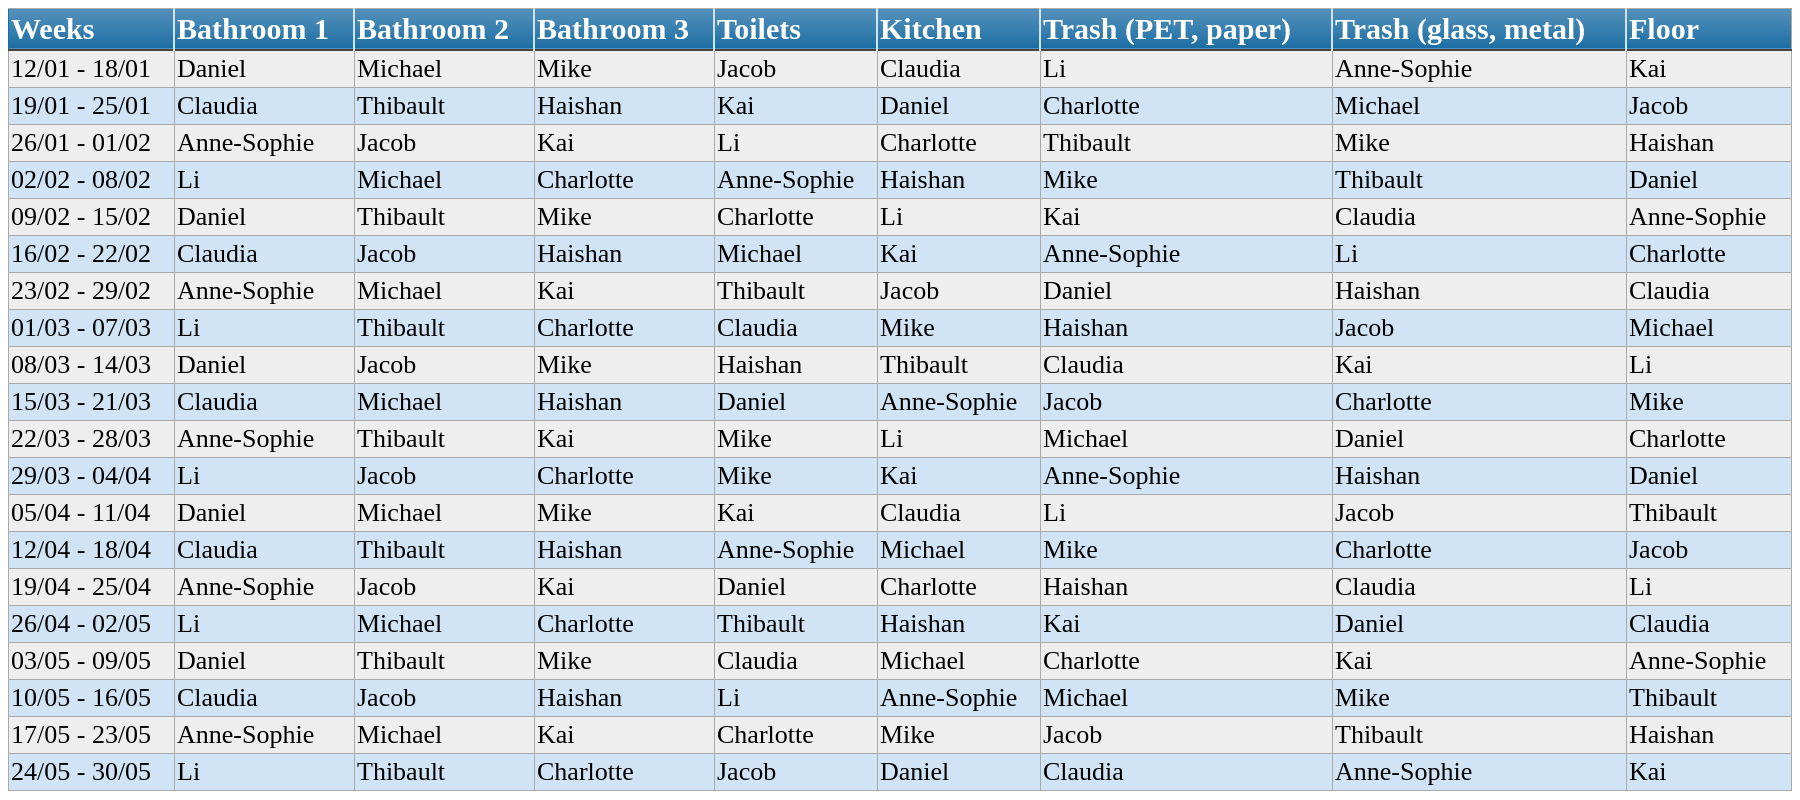
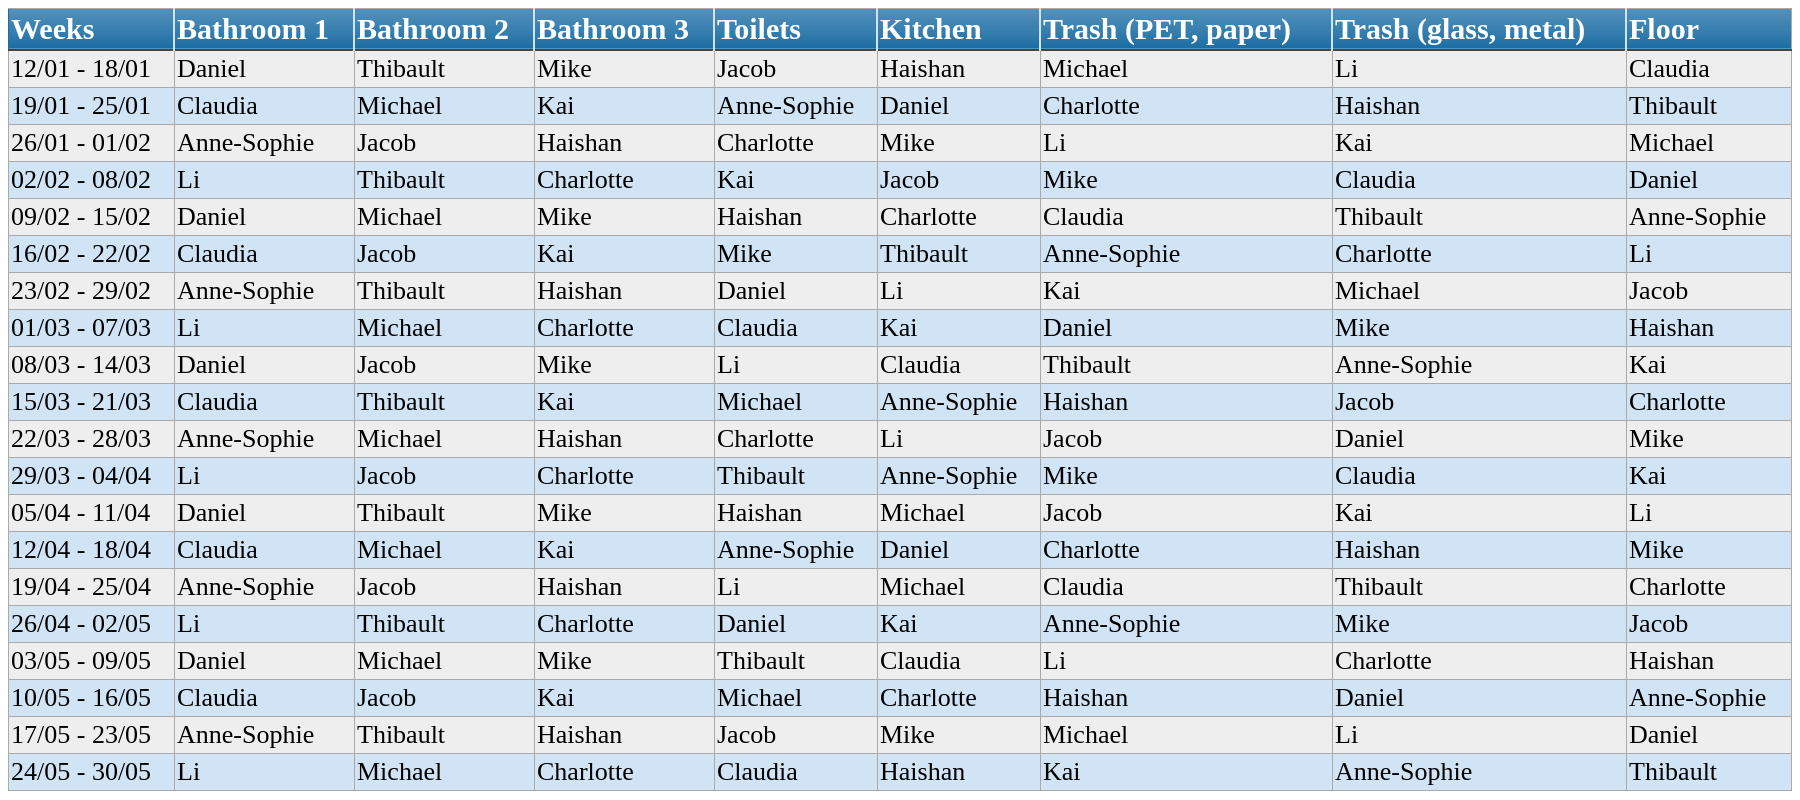
Counter of jobs, taking pause into account, no max recursion

diff --git a/cleaning_duty.html b/cleaning_duty.html
@@ -7,26 +7,26 @@
 <tr><th>Weeks        </th><th>Bathroom 1  </th><th>Bathroom 2  </th><th>Bathroom 3  </th><th>Toilets    </th><th>Kitchen    </th><th>Trash (PET, paper)  </th><th>Trash (glass, metal)  </th><th>Floor      </th></tr>
 </thead>
 <tbody>
-<tr><td>12/01 - 18/01</td><td>Daniel      </td><td>Michael     </td><td>Mike        </td><td>Jacob      </td><td>Claudia    </td><td>Li                  </td><td>Anne-Sophie           </td><td>Kai        </td></tr>
-<tr><td>19/01 - 25/01</td><td>Claudia     </td><td>Thibault    </td><td>Haishan     </td><td>Kai        </td><td>Daniel     </td><td>Charlotte           </td><td>Michael               </td><td>Jacob      </td></tr>
-<tr><td>26/01 - 01/02</td><td>Anne-Sophie </td><td>Jacob       </td><td>Kai         </td><td>Li         </td><td>Charlotte  </td><td>Thibault            </td><td>Mike                  </td><td>Haishan    </td></tr>
-<tr><td>02/02 - 08/02</td><td>Li          </td><td>Michael     </td><td>Charlotte   </td><td>Anne-Sophie</td><td>Haishan    </td><td>Mike                </td><td>Thibault              </td><td>Daniel     </td></tr>
-<tr><td>09/02 - 15/02</td><td>Daniel      </td><td>Thibault    </td><td>Mike        </td><td>Charlotte  </td><td>Li         </td><td>Kai                 </td><td>Claudia               </td><td>Anne-Sophie</td></tr>
-<tr><td>16/02 - 22/02</td><td>Claudia     </td><td>Jacob       </td><td>Haishan     </td><td>Michael    </td><td>Kai        </td><td>Anne-Sophie         </td><td>Li                    </td><td>Charlotte  </td></tr>
-<tr><td>23/02 - 29/02</td><td>Anne-Sophie </td><td>Michael     </td><td>Kai         </td><td>Thibault   </td><td>Jacob      </td><td>Daniel              </td><td>Haishan               </td><td>Claudia    </td></tr>
-<tr><td>01/03 - 07/03</td><td>Li          </td><td>Thibault    </td><td>Charlotte   </td><td>Claudia    </td><td>Mike       </td><td>Haishan             </td><td>Jacob                 </td><td>Michael    </td></tr>
-<tr><td>08/03 - 14/03</td><td>Daniel      </td><td>Jacob       </td><td>Mike        </td><td>Haishan    </td><td>Thibault   </td><td>Claudia             </td><td>Kai                   </td><td>Li         </td></tr>
-<tr><td>15/03 - 21/03</td><td>Claudia     </td><td>Michael     </td><td>Haishan     </td><td>Daniel     </td><td>Anne-Sophie</td><td>Jacob               </td><td>Charlotte             </td><td>Mike       </td></tr>
-<tr><td>22/03 - 28/03</td><td>Anne-Sophie </td><td>Thibault    </td><td>Kai         </td><td>Mike       </td><td>Li         </td><td>Michael             </td><td>Daniel                </td><td>Charlotte  </td></tr>
-<tr><td>29/03 - 04/04</td><td>Li          </td><td>Jacob       </td><td>Charlotte   </td><td>Mike       </td><td>Kai        </td><td>Anne-Sophie         </td><td>Haishan               </td><td>Daniel     </td></tr>
-<tr><td>05/04 - 11/04</td><td>Daniel      </td><td>Michael     </td><td>Mike        </td><td>Kai        </td><td>Claudia    </td><td>Li                  </td><td>Jacob                 </td><td>Thibault   </td></tr>
-<tr><td>12/04 - 18/04</td><td>Claudia     </td><td>Thibault    </td><td>Haishan     </td><td>Anne-Sophie</td><td>Michael    </td><td>Mike                </td><td>Charlotte             </td><td>Jacob      </td></tr>
-<tr><td>19/04 - 25/04</td><td>Anne-Sophie </td><td>Jacob       </td><td>Kai         </td><td>Daniel     </td><td>Charlotte  </td><td>Haishan             </td><td>Claudia               </td><td>Li         </td></tr>
-<tr><td>26/04 - 02/05</td><td>Li          </td><td>Michael     </td><td>Charlotte   </td><td>Thibault   </td><td>Haishan    </td><td>Kai                 </td><td>Daniel                </td><td>Claudia    </td></tr>
-<tr><td>03/05 - 09/05</td><td>Daniel      </td><td>Thibault    </td><td>Mike        </td><td>Claudia    </td><td>Michael    </td><td>Charlotte           </td><td>Kai                   </td><td>Anne-Sophie</td></tr>
-<tr><td>10/05 - 16/05</td><td>Claudia     </td><td>Jacob       </td><td>Haishan     </td><td>Li         </td><td>Anne-Sophie</td><td>Michael             </td><td>Mike                  </td><td>Thibault   </td></tr>
-<tr><td>17/05 - 23/05</td><td>Anne-Sophie </td><td>Michael     </td><td>Kai         </td><td>Charlotte  </td><td>Mike       </td><td>Jacob               </td><td>Thibault              </td><td>Haishan    </td></tr>
-<tr><td>24/05 - 30/05</td><td>Li          </td><td>Thibault    </td><td>Charlotte   </td><td>Jacob      </td><td>Daniel     </td><td>Claudia             </td><td>Anne-Sophie           </td><td>Kai        </td></tr>
+<tr><td>12/01 - 18/01</td><td>Daniel      </td><td>Thibault    </td><td>Mike        </td><td>Jacob      </td><td>Haishan    </td><td>Michael             </td><td>Li                    </td><td>Claudia    </td></tr>
+<tr><td>19/01 - 25/01</td><td>Claudia     </td><td>Michael     </td><td>Kai         </td><td>Anne-Sophie</td><td>Daniel     </td><td>Charlotte           </td><td>Haishan               </td><td>Thibault   </td></tr>
+<tr><td>26/01 - 01/02</td><td>Anne-Sophie </td><td>Jacob       </td><td>Haishan     </td><td>Charlotte  </td><td>Mike       </td><td>Li                  </td><td>Kai                   </td><td>Michael    </td></tr>
+<tr><td>02/02 - 08/02</td><td>Li          </td><td>Thibault    </td><td>Charlotte   </td><td>Kai        </td><td>Jacob      </td><td>Mike                </td><td>Claudia               </td><td>Daniel     </td></tr>
+<tr><td>09/02 - 15/02</td><td>Daniel      </td><td>Michael     </td><td>Mike        </td><td>Haishan    </td><td>Charlotte  </td><td>Claudia             </td><td>Thibault              </td><td>Anne-Sophie</td></tr>
+<tr><td>16/02 - 22/02</td><td>Claudia     </td><td>Jacob       </td><td>Kai         </td><td>Mike       </td><td>Thibault   </td><td>Anne-Sophie         </td><td>Charlotte             </td><td>Li         </td></tr>
+<tr><td>23/02 - 29/02</td><td>Anne-Sophie </td><td>Thibault    </td><td>Haishan     </td><td>Daniel     </td><td>Li         </td><td>Kai                 </td><td>Michael               </td><td>Jacob      </td></tr>
+<tr><td>01/03 - 07/03</td><td>Li          </td><td>Michael     </td><td>Charlotte   </td><td>Claudia    </td><td>Kai        </td><td>Daniel              </td><td>Mike                  </td><td>Haishan    </td></tr>
+<tr><td>08/03 - 14/03</td><td>Daniel      </td><td>Jacob       </td><td>Mike        </td><td>Li         </td><td>Claudia    </td><td>Thibault            </td><td>Anne-Sophie           </td><td>Kai        </td></tr>
+<tr><td>15/03 - 21/03</td><td>Claudia     </td><td>Thibault    </td><td>Kai         </td><td>Michael    </td><td>Anne-Sophie</td><td>Haishan             </td><td>Jacob                 </td><td>Charlotte  </td></tr>
+<tr><td>22/03 - 28/03</td><td>Anne-Sophie </td><td>Michael     </td><td>Haishan     </td><td>Charlotte  </td><td>Li         </td><td>Jacob               </td><td>Daniel                </td><td>Mike       </td></tr>
+<tr><td>29/03 - 04/04</td><td>Li          </td><td>Jacob       </td><td>Charlotte   </td><td>Thibault   </td><td>Anne-Sophie</td><td>Mike                </td><td>Claudia               </td><td>Kai        </td></tr>
+<tr><td>05/04 - 11/04</td><td>Daniel      </td><td>Thibault    </td><td>Mike        </td><td>Haishan    </td><td>Michael    </td><td>Jacob               </td><td>Kai                   </td><td>Li         </td></tr>
+<tr><td>12/04 - 18/04</td><td>Claudia     </td><td>Michael     </td><td>Kai         </td><td>Anne-Sophie</td><td>Daniel     </td><td>Charlotte           </td><td>Haishan               </td><td>Mike       </td></tr>
+<tr><td>19/04 - 25/04</td><td>Anne-Sophie </td><td>Jacob       </td><td>Haishan     </td><td>Li         </td><td>Michael    </td><td>Claudia             </td><td>Thibault              </td><td>Charlotte  </td></tr>
+<tr><td>26/04 - 02/05</td><td>Li          </td><td>Thibault    </td><td>Charlotte   </td><td>Daniel     </td><td>Kai        </td><td>Anne-Sophie         </td><td>Mike                  </td><td>Jacob      </td></tr>
+<tr><td>03/05 - 09/05</td><td>Daniel      </td><td>Michael     </td><td>Mike        </td><td>Thibault   </td><td>Claudia    </td><td>Li                  </td><td>Charlotte             </td><td>Haishan    </td></tr>
+<tr><td>10/05 - 16/05</td><td>Claudia     </td><td>Jacob       </td><td>Kai         </td><td>Michael    </td><td>Charlotte  </td><td>Haishan             </td><td>Daniel                </td><td>Anne-Sophie</td></tr>
+<tr><td>17/05 - 23/05</td><td>Anne-Sophie </td><td>Thibault    </td><td>Haishan     </td><td>Jacob      </td><td>Mike       </td><td>Michael             </td><td>Li                    </td><td>Daniel     </td></tr>
+<tr><td>24/05 - 30/05</td><td>Li          </td><td>Michael     </td><td>Charlotte   </td><td>Claudia    </td><td>Haishan    </td><td>Kai                 </td><td>Anne-Sophie           </td><td>Thibault   </td></tr>
 </tbody>
 </table>
 </body>

diff --git a/html/table.html b/html/table.html
@@ -3,25 +3,25 @@
 <tr><th>Weeks        </th><th>Bathroom 1  </th><th>Bathroom 2  </th><th>Bathroom 3  </th><th>Toilets    </th><th>Kitchen    </th><th>Trash (PET, paper)  </th><th>Trash (glass, metal)  </th><th>Floor      </th></tr>
 </thead>
 <tbody>
-<tr><td>12/01 - 18/01</td><td>Daniel      </td><td>Michael     </td><td>Mike        </td><td>Jacob      </td><td>Claudia    </td><td>Li                  </td><td>Anne-Sophie           </td><td>Kai        </td></tr>
-<tr><td>19/01 - 25/01</td><td>Claudia     </td><td>Thibault    </td><td>Haishan     </td><td>Kai        </td><td>Daniel     </td><td>Charlotte           </td><td>Michael               </td><td>Jacob      </td></tr>
-<tr><td>26/01 - 01/02</td><td>Anne-Sophie </td><td>Jacob       </td><td>Kai         </td><td>Li         </td><td>Charlotte  </td><td>Thibault            </td><td>Mike                  </td><td>Haishan    </td></tr>
-<tr><td>02/02 - 08/02</td><td>Li          </td><td>Michael     </td><td>Charlotte   </td><td>Anne-Sophie</td><td>Haishan    </td><td>Mike                </td><td>Thibault              </td><td>Daniel     </td></tr>
-<tr><td>09/02 - 15/02</td><td>Daniel      </td><td>Thibault    </td><td>Mike        </td><td>Charlotte  </td><td>Li         </td><td>Kai                 </td><td>Claudia               </td><td>Anne-Sophie</td></tr>
-<tr><td>16/02 - 22/02</td><td>Claudia     </td><td>Jacob       </td><td>Haishan     </td><td>Michael    </td><td>Kai        </td><td>Anne-Sophie         </td><td>Li                    </td><td>Charlotte  </td></tr>
-<tr><td>23/02 - 29/02</td><td>Anne-Sophie </td><td>Michael     </td><td>Kai         </td><td>Thibault   </td><td>Jacob      </td><td>Daniel              </td><td>Haishan               </td><td>Claudia    </td></tr>
-<tr><td>01/03 - 07/03</td><td>Li          </td><td>Thibault    </td><td>Charlotte   </td><td>Claudia    </td><td>Mike       </td><td>Haishan             </td><td>Jacob                 </td><td>Michael    </td></tr>
-<tr><td>08/03 - 14/03</td><td>Daniel      </td><td>Jacob       </td><td>Mike        </td><td>Haishan    </td><td>Thibault   </td><td>Claudia             </td><td>Kai                   </td><td>Li         </td></tr>
-<tr><td>15/03 - 21/03</td><td>Claudia     </td><td>Michael     </td><td>Haishan     </td><td>Daniel     </td><td>Anne-Sophie</td><td>Jacob               </td><td>Charlotte             </td><td>Mike       </td></tr>
-<tr><td>22/03 - 28/03</td><td>Anne-Sophie </td><td>Thibault    </td><td>Kai         </td><td>Mike       </td><td>Li         </td><td>Michael             </td><td>Daniel                </td><td>Charlotte  </td></tr>
-<tr><td>29/03 - 04/04</td><td>Li          </td><td>Jacob       </td><td>Charlotte   </td><td>Mike       </td><td>Kai        </td><td>Anne-Sophie         </td><td>Haishan               </td><td>Daniel     </td></tr>
-<tr><td>05/04 - 11/04</td><td>Daniel      </td><td>Michael     </td><td>Mike        </td><td>Kai        </td><td>Claudia    </td><td>Li                  </td><td>Jacob                 </td><td>Thibault   </td></tr>
-<tr><td>12/04 - 18/04</td><td>Claudia     </td><td>Thibault    </td><td>Haishan     </td><td>Anne-Sophie</td><td>Michael    </td><td>Mike                </td><td>Charlotte             </td><td>Jacob      </td></tr>
-<tr><td>19/04 - 25/04</td><td>Anne-Sophie </td><td>Jacob       </td><td>Kai         </td><td>Daniel     </td><td>Charlotte  </td><td>Haishan             </td><td>Claudia               </td><td>Li         </td></tr>
-<tr><td>26/04 - 02/05</td><td>Li          </td><td>Michael     </td><td>Charlotte   </td><td>Thibault   </td><td>Haishan    </td><td>Kai                 </td><td>Daniel                </td><td>Claudia    </td></tr>
-<tr><td>03/05 - 09/05</td><td>Daniel      </td><td>Thibault    </td><td>Mike        </td><td>Claudia    </td><td>Michael    </td><td>Charlotte           </td><td>Kai                   </td><td>Anne-Sophie</td></tr>
-<tr><td>10/05 - 16/05</td><td>Claudia     </td><td>Jacob       </td><td>Haishan     </td><td>Li         </td><td>Anne-Sophie</td><td>Michael             </td><td>Mike                  </td><td>Thibault   </td></tr>
-<tr><td>17/05 - 23/05</td><td>Anne-Sophie </td><td>Michael     </td><td>Kai         </td><td>Charlotte  </td><td>Mike       </td><td>Jacob               </td><td>Thibault              </td><td>Haishan    </td></tr>
-<tr><td>24/05 - 30/05</td><td>Li          </td><td>Thibault    </td><td>Charlotte   </td><td>Jacob      </td><td>Daniel     </td><td>Claudia             </td><td>Anne-Sophie           </td><td>Kai        </td></tr>
+<tr><td>12/01 - 18/01</td><td>Daniel      </td><td>Thibault    </td><td>Mike        </td><td>Jacob      </td><td>Haishan    </td><td>Michael             </td><td>Li                    </td><td>Claudia    </td></tr>
+<tr><td>19/01 - 25/01</td><td>Claudia     </td><td>Michael     </td><td>Kai         </td><td>Anne-Sophie</td><td>Daniel     </td><td>Charlotte           </td><td>Haishan               </td><td>Thibault   </td></tr>
+<tr><td>26/01 - 01/02</td><td>Anne-Sophie </td><td>Jacob       </td><td>Haishan     </td><td>Charlotte  </td><td>Mike       </td><td>Li                  </td><td>Kai                   </td><td>Michael    </td></tr>
+<tr><td>02/02 - 08/02</td><td>Li          </td><td>Thibault    </td><td>Charlotte   </td><td>Kai        </td><td>Jacob      </td><td>Mike                </td><td>Claudia               </td><td>Daniel     </td></tr>
+<tr><td>09/02 - 15/02</td><td>Daniel      </td><td>Michael     </td><td>Mike        </td><td>Haishan    </td><td>Charlotte  </td><td>Claudia             </td><td>Thibault              </td><td>Anne-Sophie</td></tr>
+<tr><td>16/02 - 22/02</td><td>Claudia     </td><td>Jacob       </td><td>Kai         </td><td>Mike       </td><td>Thibault   </td><td>Anne-Sophie         </td><td>Charlotte             </td><td>Li         </td></tr>
+<tr><td>23/02 - 29/02</td><td>Anne-Sophie </td><td>Thibault    </td><td>Haishan     </td><td>Daniel     </td><td>Li         </td><td>Kai                 </td><td>Michael               </td><td>Jacob      </td></tr>
+<tr><td>01/03 - 07/03</td><td>Li          </td><td>Michael     </td><td>Charlotte   </td><td>Claudia    </td><td>Kai        </td><td>Daniel              </td><td>Mike                  </td><td>Haishan    </td></tr>
+<tr><td>08/03 - 14/03</td><td>Daniel      </td><td>Jacob       </td><td>Mike        </td><td>Li         </td><td>Claudia    </td><td>Thibault            </td><td>Anne-Sophie           </td><td>Kai        </td></tr>
+<tr><td>15/03 - 21/03</td><td>Claudia     </td><td>Thibault    </td><td>Kai         </td><td>Michael    </td><td>Anne-Sophie</td><td>Haishan             </td><td>Jacob                 </td><td>Charlotte  </td></tr>
+<tr><td>22/03 - 28/03</td><td>Anne-Sophie </td><td>Michael     </td><td>Haishan     </td><td>Charlotte  </td><td>Li         </td><td>Jacob               </td><td>Daniel                </td><td>Mike       </td></tr>
+<tr><td>29/03 - 04/04</td><td>Li          </td><td>Jacob       </td><td>Charlotte   </td><td>Thibault   </td><td>Anne-Sophie</td><td>Mike                </td><td>Claudia               </td><td>Kai        </td></tr>
+<tr><td>05/04 - 11/04</td><td>Daniel      </td><td>Thibault    </td><td>Mike        </td><td>Haishan    </td><td>Michael    </td><td>Jacob               </td><td>Kai                   </td><td>Li         </td></tr>
+<tr><td>12/04 - 18/04</td><td>Claudia     </td><td>Michael     </td><td>Kai         </td><td>Anne-Sophie</td><td>Daniel     </td><td>Charlotte           </td><td>Haishan               </td><td>Mike       </td></tr>
+<tr><td>19/04 - 25/04</td><td>Anne-Sophie </td><td>Jacob       </td><td>Haishan     </td><td>Li         </td><td>Michael    </td><td>Claudia             </td><td>Thibault              </td><td>Charlotte  </td></tr>
+<tr><td>26/04 - 02/05</td><td>Li          </td><td>Thibault    </td><td>Charlotte   </td><td>Daniel     </td><td>Kai        </td><td>Anne-Sophie         </td><td>Mike                  </td><td>Jacob      </td></tr>
+<tr><td>03/05 - 09/05</td><td>Daniel      </td><td>Michael     </td><td>Mike        </td><td>Thibault   </td><td>Claudia    </td><td>Li                  </td><td>Charlotte             </td><td>Haishan    </td></tr>
+<tr><td>10/05 - 16/05</td><td>Claudia     </td><td>Jacob       </td><td>Kai         </td><td>Michael    </td><td>Charlotte  </td><td>Haishan             </td><td>Daniel                </td><td>Anne-Sophie</td></tr>
+<tr><td>17/05 - 23/05</td><td>Anne-Sophie </td><td>Thibault    </td><td>Haishan     </td><td>Jacob      </td><td>Mike       </td><td>Michael             </td><td>Li                    </td><td>Daniel     </td></tr>
+<tr><td>24/05 - 30/05</td><td>Li          </td><td>Michael     </td><td>Charlotte   </td><td>Claudia    </td><td>Haishan    </td><td>Kai                 </td><td>Anne-Sophie           </td><td>Thibault   </td></tr>
 </tbody>
 </table>

diff --git a/generate.py b/generate.py
@@ -1,3 +1,6 @@
+#!/usr/bin/python3
+
+import sys
 import random as rd
 from tabulate import tabulate
 from datetime import datetime  
@@ -10,6 +13,10 @@ tasks = ["Toilets", "Kitchen", "Trash (PET, paper)", "Trash (glass, metal)", "Fl
 first_day = (13, 1, 2020)
 
 # rd.seed(42)
+
+style = "plain"
+if len(sys.argv) >= 2:
+    style = str(sys.argv[1])
 
 n_other_tasks = len(tasks)
 n_bathrooms = len(bathrooms)
@@ -40,38 +47,44 @@ def get_tasks_mini(person, counter):
             s.add(i + n_bathrooms)
     return s
 
-def total_number_of_jobs(person, counter):
-    return sum(counter[person])
+def worked_last_week(person):
+    if len(schedule) >= 1:
+        return person in schedule[-1]
+    return False
 
 def update(i):
     global schedule
-    # print("Update", i)
-    week = [-1 for _ in range(n_tasks)]
-    persons = set(range(n_persons))
-    for (ib, b) in enumerate(bathrooms):
-        ind = i % len(b)
-        p = b[ind]
-        week[ib] = p
-        persons.remove(p)
-    persons = list(persons)
-    rd.shuffle(persons)
-    c = count()
-    persons.sort(key = lambda p: sum(c[p])) # Priority to people with fewer jobs
-    avail_tasks = set(range(n_bathrooms, n_tasks))
-    for p in persons[:len(avail_tasks)]:
-        s = get_tasks_mini(p, c).intersection(avail_tasks)
-        if len(s) == 0:
-            # print("Failure", i)
-            return False
-        task = rd.sample(s, 1)[0]
-        avail_tasks.remove(task)
-        week[task] = p
-    schedule.append(week)
-    if i + 1 < n_weeks:
-        r = update(i + 1)
-        while not r:
-            schedule = schedule[:i]
-            r = update(i)
+
+    done = False
+
+    while not done:
+        week = [-1 for _ in range(n_tasks)]
+        persons = set(range(n_persons))
+        for (ib, b) in enumerate(bathrooms):
+            ind = i % len(b)
+            p = b[ind]
+            week[ib] = p
+            persons.remove(p)
+        persons = list(persons)
+        rd.shuffle(persons)
+        c = count()
+        persons.sort(key = lambda p: 2 * sum(c[p]) + worked_last_week(p)) # Priority to people with fewer jobs and who did pause
+        avail_tasks = set(range(n_bathrooms, n_tasks))
+        for p in persons[:len(avail_tasks)]:
+            s = get_tasks_mini(p, c).intersection(avail_tasks)
+            if len(s) == 0:
+                # print("Failure", i)
+                return False
+            task = rd.sample(s, 1)[0]
+            avail_tasks.remove(task)
+            week[task] = p
+        schedule.append(week)
+        if i + 1 < n_weeks:
+            done = update(i + 1)
+            if not done:
+                schedule = schedule[:i]
+        else:
+            done = True
     return True
 
 update(0)
@@ -93,4 +106,10 @@ for i in range(n_weeks):
 
 pretty_schedule = [[weeks[n]] + [names[i] for i in week] for (n, week) in enumerate(schedule)]
 
-print(tabulate(pretty_schedule, headers=["Weeks"] + ["Bathroom " + str(i + 1) for i in range(n_bathrooms)] + tasks, tablefmt="html"))
+print(tabulate(pretty_schedule, headers=["Weeks"] + ["Bathroom " + str(i + 1) for i in range(n_bathrooms)] + tasks, tablefmt=style))
+
+if style == "plain":
+    print("Number of jobs per person")
+    c = count()
+    for (p, name) in enumerate(names):
+        print(name + ": " + str(sum(c[p])) + " jobs (" + str(sum(c[p][:n_bathrooms])) + " bathrooms)")
